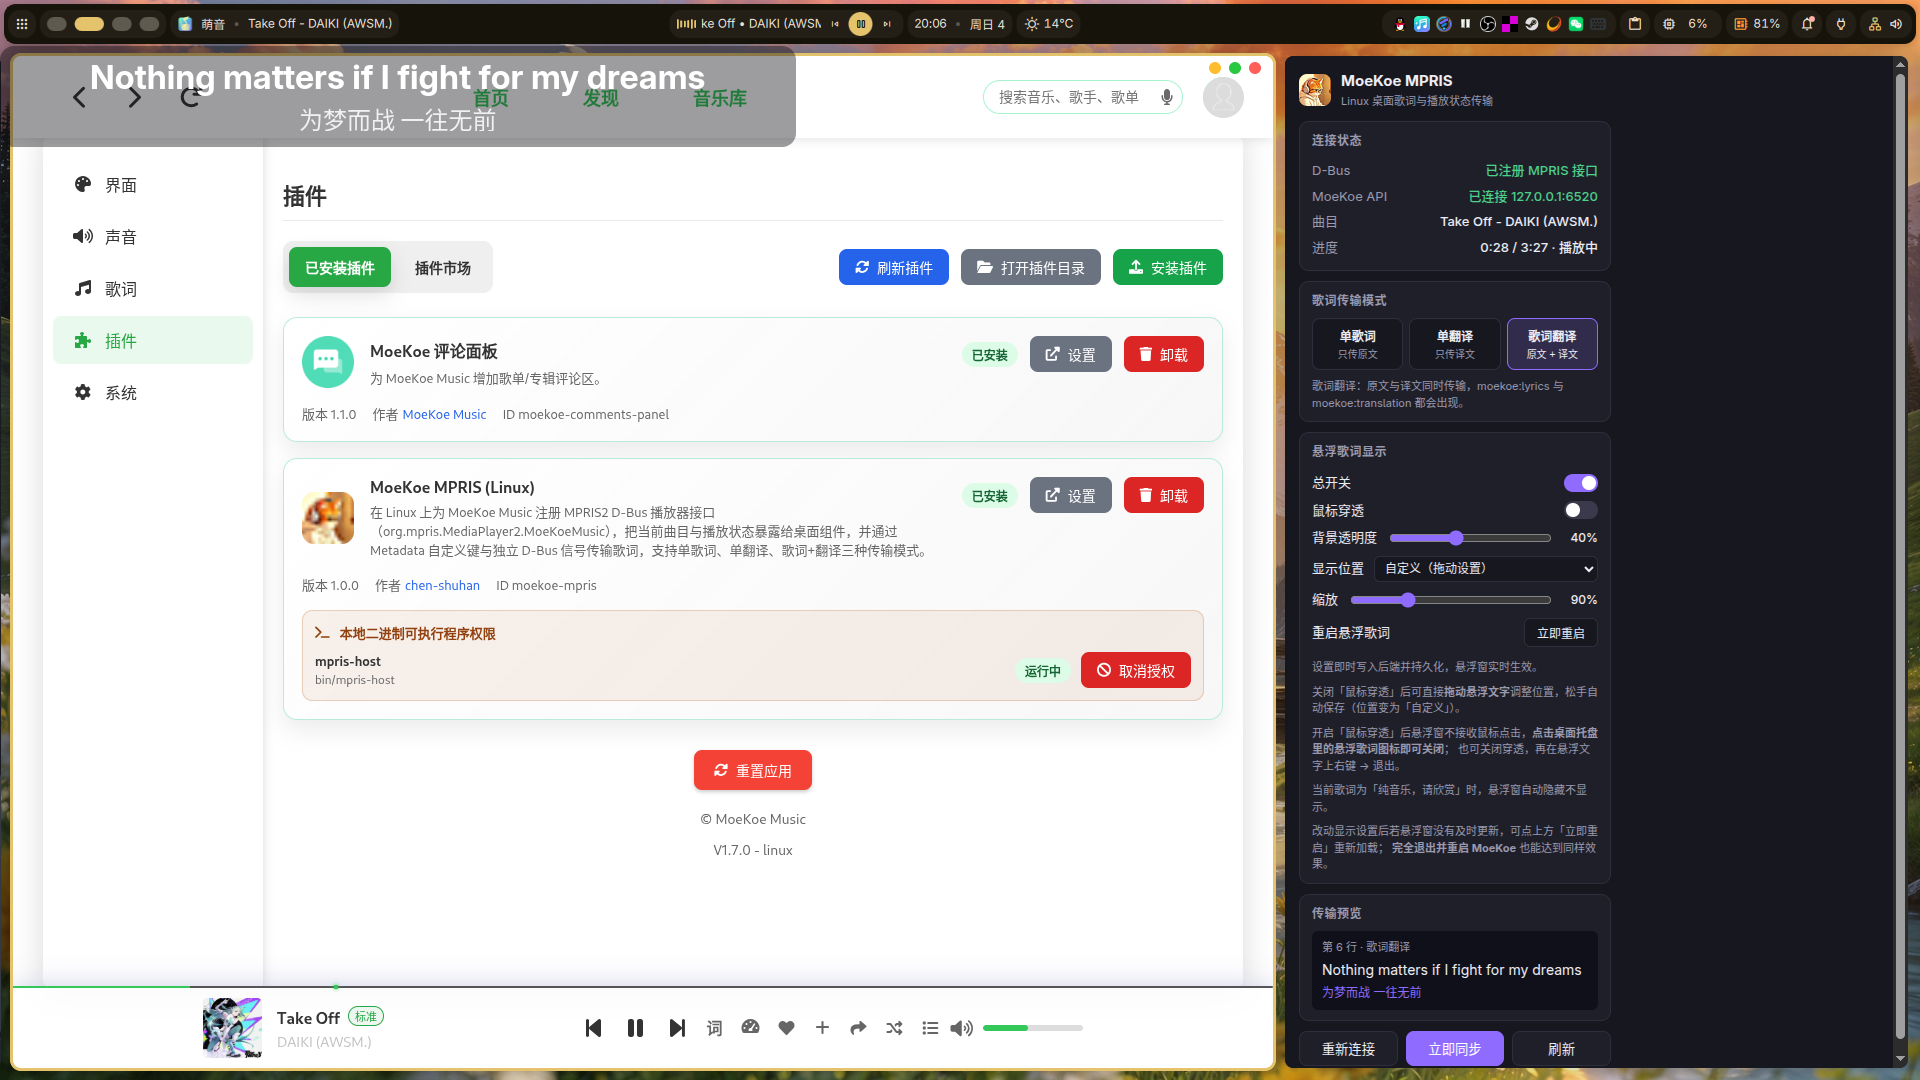
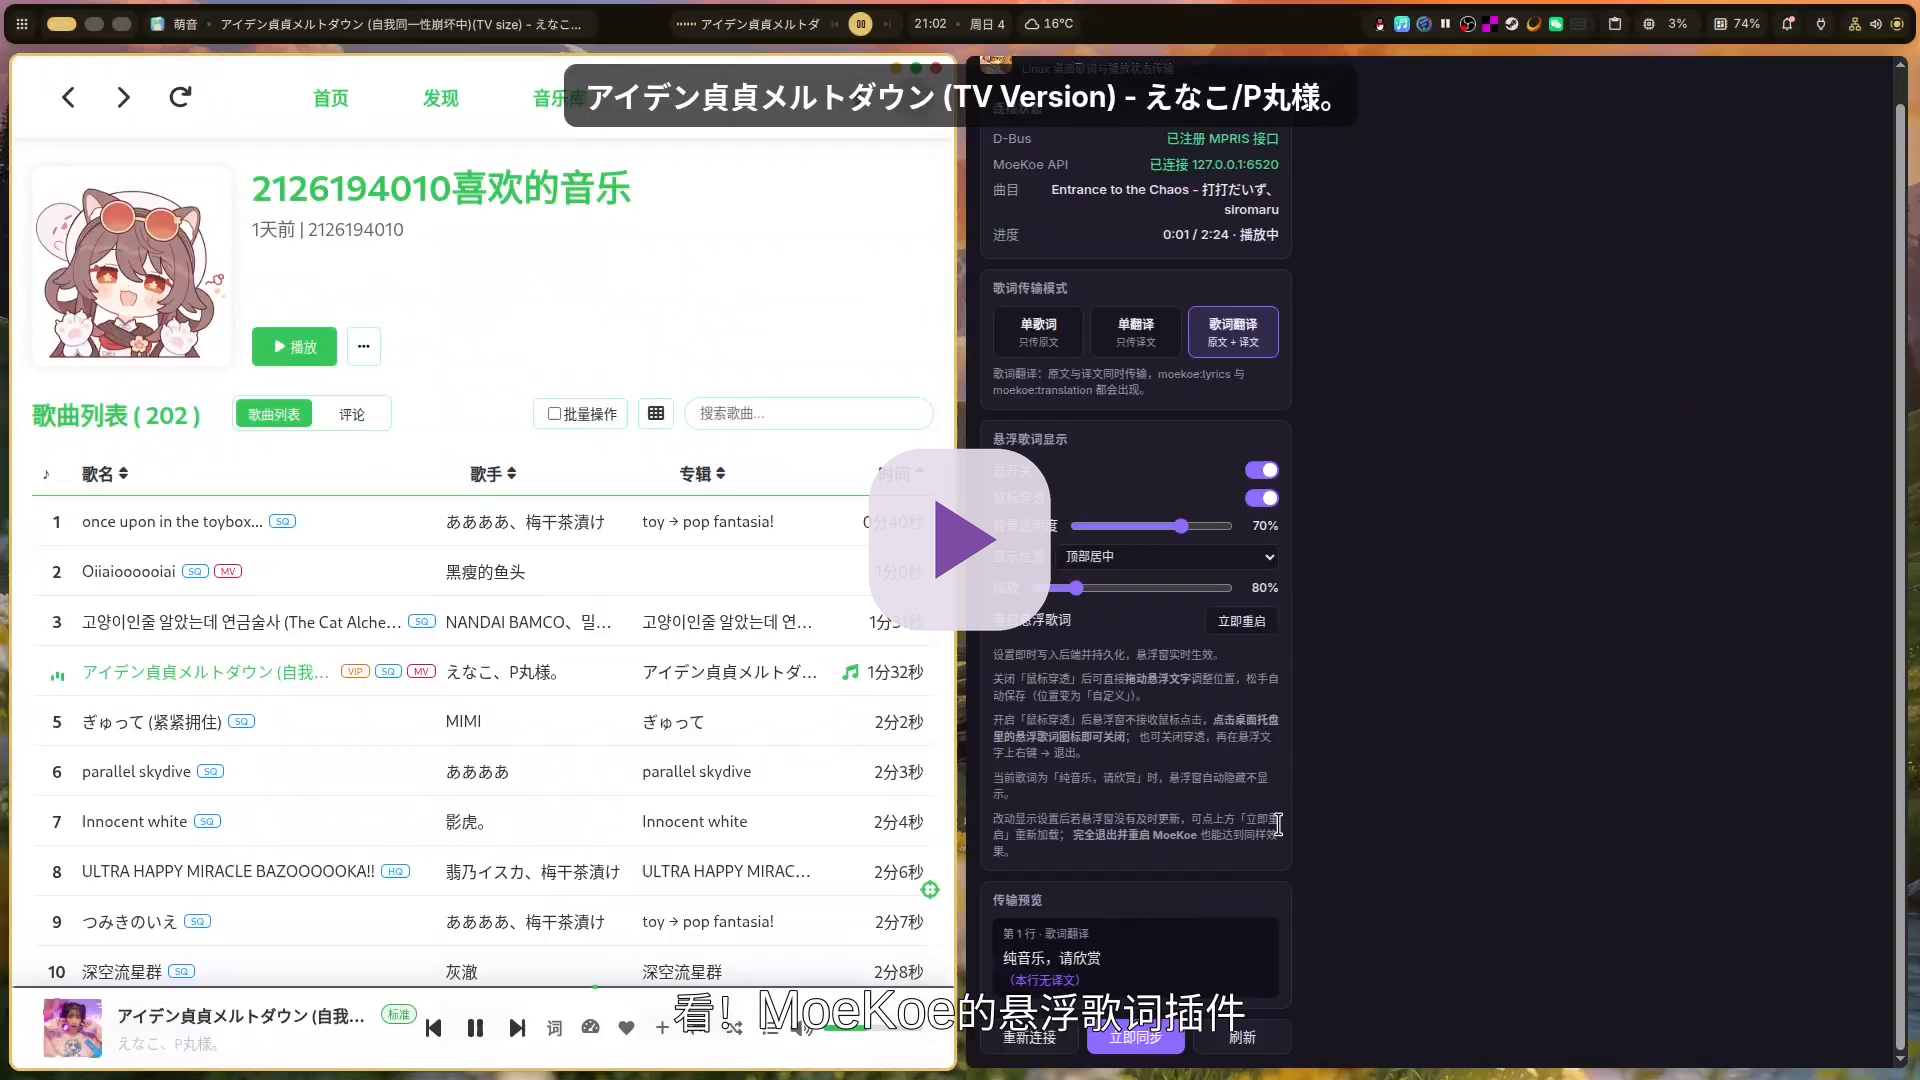
docs: update README to include clickable image link

diff --git a/README.md b/README.md
@@ -2,7 +2,9 @@
 
 ⚠VIBE CODING WARNING!
 
-![alt text](image.png)
+
+[![](image.png)](player.bilibili.com/player.html?isOutside=true&aid=117383217808262&bvid=BV1YYH76FEm7&cid=42463002772&p=1)
+
 
 为 **MoeKoe Music** 提供 Linux 下的 **MPRIS2** 协议支持：在会话 D-Bus 上注册
 `org.mpris.MediaPlayer2.MoeKoeMusic`，把当前曲目、播放状态暴露给桌面组件，
